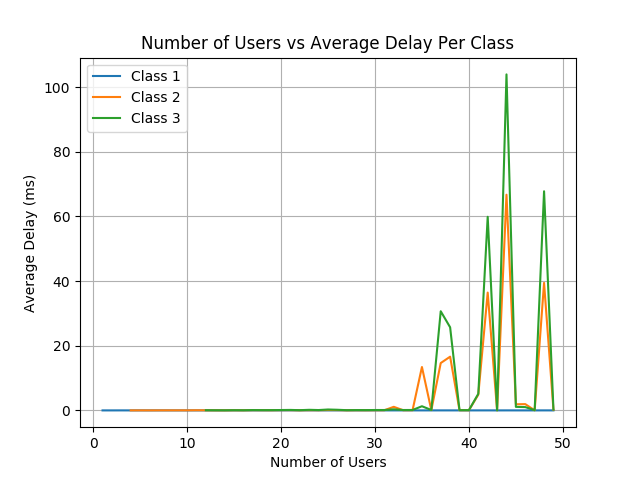
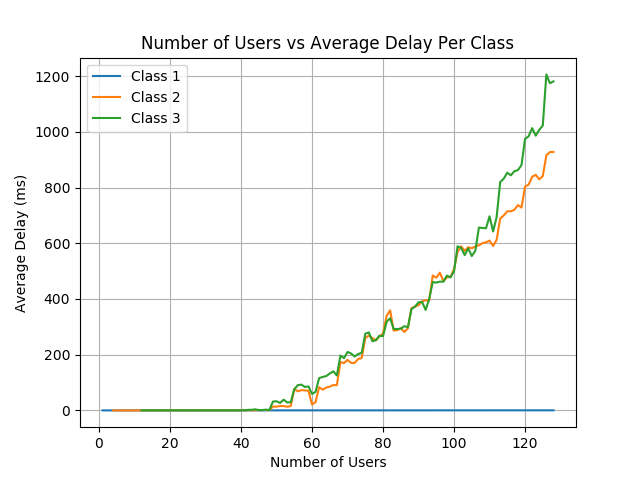
WRR scheduler works. Missing WRR PFT scheduler, std deviation of throughput plots and GBR or what % of users statistics

diff --git a/RRM_lib.py b/RRM_lib.py
@@ -83,10 +83,11 @@ class Radio_Resource_Manager(object):
         self.delays_per_user = np.zeros(self.N)
         self.transmissions_per_user = np.zeros(self.N)
         self.MS_received_pkts = np.zeros(self.N_MS)
+        self.packet_delays_per_class = [ [], [], [] ]
 
         # default to empty packet
         self.pkt_to_tx = self.get_new_packet(-1, -1, -1, -1, -1)
-
+        self.max_delay_per_class = [-1.0, -1.0, -1.0]
         self.transmitting_to_MS = False
         self.tx_expiration = -1
 
@@ -102,7 +103,12 @@ class Radio_Resource_Manager(object):
         self.N2 = 0     # number of class 2 users
         self.N3 = 0     # number of class 3 users
 
+        self.current_class_id = 3
+        self.WRR_exp = 0
 
+        self.c1_rem = 0.0
+        self.c2_rem = 0.0
+        self.c3_rem = 0.0
 
     def reset(self):
         print "Resetting RRM"
@@ -207,7 +213,10 @@ class Radio_Resource_Manager(object):
         while not done:
             for class_id in range(3):
                 if self.class_n_packets_avail(class_id + 1):
-                    for usr in self.class_n_usrs[class_id]:
+                    # shuffle user list
+                    usr_list = self.class_n_usrs[class_id].copy()
+                    random.shuffle(usr_list)
+                    for usr in usr_list:
                         if len(self.user_queues[usr]) > 0:
                             t_to_dec = self.user_queues[usr][-1].get("T_MS")
                             if (tx_time - t_to_dec) > 0.0:
@@ -219,45 +228,93 @@ class Radio_Resource_Manager(object):
                                 done = True
             done = True
 
-    def WRR_scheduler(self):
+    def WRR_scheduler(self, class_durations, current_slt):
 
-        class_id = self.get_current_class_to_schedule()
+
+        #Total_Time = 1.0 # msec
+
+
+        #while time_tracker < Total_Time:
+
+        tx_time = 1.0
+
+        #time_tracker += tx_time
+        class_id = self.get_current_class_to_schedule(class_durations=class_durations, current_slt=current_slt)
         done = False
-        tx_time = 1.0 # msec
 
         while not done:
-            if self.class_n_packets_avail(class_id + 1):
-                for usr in self.class_n_usrs[class_id]:
-                    if len(self.user_queues[usr]) > 0:
-                        t_to_dec = self.user_queues[usr][-1].get("T_MS")
-                        if (tx_time - t_to_dec) > 0.0:
-                            # pop the usr packet off the queue and add it to the tx queue
-                            pkt = self.pop_packet(usr)
-                            self.transmit_queue.appendleft(pkt)
-                            tx_time = tx_time - t_to_dec
-                        else:
-                            done = True
+            for usr in self.class_n_usrs[class_id-1]:
+                if len(self.user_queues[usr]) > 0:
+                    t_to_dec = self.user_queues[usr][-1].get("T_MS")
+                    if t_to_dec > 1.0:
+                        print "Packets are too big for time slot"
+                        sys.exit()
+
+                    if (tx_time - t_to_dec) > 0.0:
+                        # pop the usr packet off the queue and add it to the tx queue
+                        pkt = self.pop_packet(usr)
+                        self.transmit_queue.appendleft(pkt)
+                        tx_time = tx_time - t_to_dec
+                    else:
+                        done = True
 
             # done if all user queues check and no one had anything to TX
             done = True
 
-    def get_current_class_to_schedule(self):
-
-        Tf = 3
-        W = [1.0/3, 1.0/3, 1.0/3]
-
-        T_start = 0
+    def get_current_class_to_schedule(self, class_durations, current_slt):
 
 
+        c1_duration = int(math.floor(class_durations[0]))
+        self.c1_rem += class_durations[0] - c1_duration
+        if self.c1_rem >= 1.0:
+            self.c1_rem = self.c1_rem - 1.0
+            c1_duration += 1
 
 
 
-    # transmit packets and calculate statistics
+        c2_duration = int(math.floor(class_durations[1]))
+        self.c2_rem += class_durations[1] - c2_duration
+        if self.c2_rem >= 1.0:
+            self.c2_rem = self.c2_rem - 1.0
+            c2_duration += 1
+
+        c3_duration = int(math.floor(class_durations[2]))
+        self.c3_rem += class_durations[2] - c3_duration
+        if self.c3_rem >= 1.0:
+            self.c3_rem = self.c3_rem - 1.0
+            c3_duration += 1
+
+
+        if self.current_class_id == 1:
+            if current_slt == self.WRR_exp:
+                self.current_class_id = 2
+                self.WRR_exp = current_slt + c2_duration
+
+        elif self.current_class_id == 2:
+            if current_slt == self.WRR_exp:
+                self.current_class_id = 3
+                self.WRR_exp = current_slt + c3_duration
+        elif self.current_class_id == 3:
+            if current_slt == self.WRR_exp:
+                self.current_class_id = 1
+                self.WRR_exp = current_slt + c1_duration
+
+        else:
+            print "Error"
+            sys.exit()
+
+        #print "\nCurrent Slot: %d" % (current_slt)
+        #print "ID returned: %d" %(self.current_class_id)
+
+        return self.current_class_id
+
+            # transmit packets and calculate statistics
     def call_transmitter(self, current_slt):
         #print "\n**Calling Transmitter**"
         size_of_tx_deque = len(self.transmit_queue)
 
         time_tracker = 0.0
+
 
         for q_id in range(size_of_tx_deque):
             # pop the packet of the transmite queue and "transmit it"
@@ -268,8 +325,15 @@ class Radio_Resource_Manager(object):
 
 
             self.transmissions_per_user[src] += 1
-            self.delays_per_user[src] += (current_slt - pkt.get("TOD")) + time_tracker
+            delay = (current_slt - pkt.get("TOD")) + time_tracker
+            #self.delays_per_user[src] += delay
             self.MS_received_pkts[dest] += 1
+
+            # track max delay per class
+            if (delay > self.max_delay_per_class[self.user_class_map[src] - 1] ):
+                self.max_delay_per_class[self.user_class_map[src] - 1] = delay
+
+            self.packet_delays_per_class[self.user_class_map[src] - 1].append(delay)
 
             # update the time with the time it took to transmit this packet
             # this is used to update each packets "delay" because
@@ -300,6 +364,7 @@ class Radio_Resource_Manager(object):
             self.usr_start_time = [0] * self.N
         else:
             self.usr_start_time = [random.randrange(0, max_num_slts, 1) for _ in range(self.N)]
+            #print self.usr_start_time
 
     def push_packet(self, usr, pkt):
         self.user_queues[usr].appendleft(pkt)
@@ -308,8 +373,18 @@ class Radio_Resource_Manager(object):
         return self.user_queues[usr].pop()
 
     def assign_SE_to_MS(self):
+
         for ms_id in range(self.N_MS):
             self.MS_SE[ms_id] = self.get_random_MS_Spectral_Efficiency() * self.downlink_bw
+
+        SE_1 = 0.2*self.downlink_bw  # bps/Hz
+        # for 30% of MS
+        SE_2 = 1.0*self.downlink_bw  # bps/Hz
+        # for 30% of MS
+        SE_3 = 2.0*self.downlink_bw  # bps/Hz
+
+        self.MS_SE = [SE_1, SE_1, SE_1, SE_2, SE_2, SE_3, SE_3, SE_3]
+        random.shuffle(self.MS_SE)
 
 
     def assign_class_to_users(self):

diff --git a/simulation.py b/simulation.py
@@ -11,9 +11,38 @@ downlink_bw = 20e6          # Hz
 time_slot_duration = 1.0    # msec
 N_MS = 8                  # number of mobile stations
 
-N_array = [4]   # number of users
-N_array = range(1, 50)
-T = 100000         # number of simulations slots
+
+scheduler = 1
+T = 20000         # number of simulations slots
+
+if scheduler == 0:
+    N_usrs = 129
+
+elif scheduler == 1:
+    N_usrs = 50
+    Tf = 10  # 1 msec slots
+    W = np.array([0.15, 0.45, 0.3])
+
+    if np.sum(W) > 1.0:
+        print "Weights are wrong"
+        sys.exit()
+
+elif scheduler == 2:
+    N_usrs = 50
+
+else:
+    print "Scheduler Error"
+    sys.exit()
+
+
+
+N_array = range(1, N_usrs)
+class_durations = W * Tf
+#class_durations = np.array([1.5, 3.5, 3.0])
+
+# choose the scheduler to simulate
+
+
 
 class_1_throughput = []
 class_2_throughput = []
@@ -23,21 +52,22 @@ class_1_avg_delay = []
 class_2_avg_delay = []
 class_3_avg_delay = []
 
+class_1_std_delay = []
+class_2_std_delay = []
+class_3_std_delay = []
+
+class_1_max_delay = []
+class_2_max_delay = []
+class_3_max_delay = []
 
 for N in N_array:
 
-    RRM = Radio_Resource_Manager(RRM_id=1, N=N, N_MS=N_MS, downlink_bw=downlink_bw)
+    RRM = Radio_Resource_Manager(RRM_id=0, N=N, N_MS=N_MS, downlink_bw=downlink_bw)
     RRM.assign_class_to_users()
     RRM.assign_SE_to_MS()
     RRM.randomize_usr_start_time(10)
 
-    #pkt = RRM.get_new_packet(1, 4, 1600, -1)
-    #RRM.transmit_queue.append(pkt)
-    #RRM.push_packet(1, pkt)
-    #print RRM.user_queues
-    #new_pkt = RRM.pop_packet(1)
-    #print new_pkt
-    #print RRM.user_queues
+    print class_durations
 
     for slt in range(T):
         #print "\nSLOT: %d" % (slt)
@@ -48,12 +78,19 @@ for N in N_array:
         RRM.update_user_queues(current_slt=slt)
 
         # call on the scheduler to schedule packets for transmission
-        RRM.priority_based_scheduler()
+        if scheduler == 0:
+            RRM.priority_based_scheduler()
+        elif scheduler == 1:
+            RRM.WRR_scheduler(class_durations=class_durations, current_slt=slt)
+        elif scheduler == 2:
+            RRM.WRR_scheduler(class_durations=class_durations, current_slt=slt)
 
         # call in transmitter portion of radio to actually TX the packets
         RRM.call_transmitter(current_slt=slt)
 
-
+    class_1_max_delay.append(RRM.max_delay_per_class[0])
+    class_2_max_delay.append(RRM.max_delay_per_class[1])
+    class_3_max_delay.append(RRM.max_delay_per_class[2])
 
     num_tx = RRM.transmissions_per_user
     c1_idx = RRM.class_n_usrs[0]
@@ -73,24 +110,37 @@ for N in N_array:
     bps_2 = ((1.0*class_2_tx / (T*1e-3)) * RRM.class_lookup[1].get("packet_size")) / len(c2_idx)
     bps_3 = ((1.0*class_3_tx / (T*1e-3)) * RRM.class_lookup[2].get("packet_size")) / len(c3_idx)
 
-    class_1_throughput.append( bps_1/1e3 ) # kbps
-    class_2_throughput.append( bps_2/1e3 ) # kbps
-    class_3_throughput.append( bps_3/1e3 ) # kbps
+    class_1_throughput.append(bps_1/1e3) # kbps
+    class_2_throughput.append(bps_2/1e3) # kbps
+    class_3_throughput.append(bps_3/1e3) # kbps
 
 
     # average delay per class
-    d_per_usr = RRM.delays_per_user
-    c1_delays = d_per_usr[c1_idx]
-    c2_delays = d_per_usr[c2_idx]
-    c3_delays = d_per_usr[c3_idx]
+    #d_per_usr = RRM.delays_per_user
+    #c1_delays = d_per_usr[c1_idx]
+    #c2_delays = d_per_usr[c2_idx]
+    #c3_delays = d_per_usr[c3_idx]
 
-    c1_delays = (np.sum(c1_delays) / class_1_tx) / len(c1_idx)
-    c2_delays = (np.sum(c2_delays) / class_2_tx) / len(c2_idx)
-    c3_delays = (np.sum(c3_delays) / class_3_tx) / len(c3_idx)
+    c1_delays_per_user = np.array(RRM.packet_delays_per_class[0])
+    c2_delays_per_user = np.array(RRM.packet_delays_per_class[1])
+    c3_delays_per_user = np.array(RRM.packet_delays_per_class[2])
 
-    class_1_avg_delay.append(c1_delays)
-    class_2_avg_delay.append(c2_delays)
-    class_3_avg_delay.append(c3_delays)
+    c1_avg_delays = np.average(c1_delays_per_user)
+    c2_avg_delays = np.average(c2_delays_per_user)
+    c3_avg_delays = np.average(c3_delays_per_user)
+
+    class_1_avg_delay.append(c1_avg_delays)
+    class_2_avg_delay.append(c2_avg_delays)
+    class_3_avg_delay.append(c3_avg_delays)
+
+    c1_std_delays = np.std(c1_delays_per_user)
+    c2_std_delays = np.std(c2_delays_per_user)
+    c3_std_delays = np.std(c3_delays_per_user)
+
+    class_1_std_delay.append(c1_std_delays)
+    class_2_std_delay.append(c2_std_delays)
+    class_3_std_delay.append(c3_std_delays)
+
 
 
 plt.figure(1)
@@ -102,7 +152,13 @@ plt.grid()
 plt.xlabel("Number of Users")
 plt.ylabel("Throughput (Kbps)")
 plt.title("Number of Users vs Throughput Per Class")
-plt.savefig("figures/Priority_Oriented_Throughput.png")
+if scheduler == 0:
+    plt.savefig("figures/Priority_Oriented_Throughput.png")
+elif scheduler == 1:
+    plt.savefig("figures/WRR_Throughput.png")
+elif scheduler == 2:
+    plt.savefig("figures/WRR_PFT_Throughput.png")
+
 #plt.show()
 
 plt.figure(2)
@@ -114,7 +170,30 @@ plt.grid()
 plt.xlabel("Number of Users")
 plt.ylabel("Average Delay (ms)")
 plt.title("Number of Users vs Average Delay Per Class")
-plt.savefig("figures/Priority_Oriented_Avg_Delay.png")
+
+if scheduler == 0:
+    plt.savefig("figures/Priority_Oriented_Avg_Delay.png")
+elif scheduler == 1:
+    plt.savefig("figures/WRR_Avg_Delay.png")
+elif scheduler == 2:
+    plt.savefig("figures/WRR_PFT_Avg_Delay.png")
+
+
+plt.figure(3)
+plt.plot(N_array, class_1_std_delay, label='Class 1')
+plt.plot(N_array, class_2_std_delay, label='Class 2')
+plt.plot(N_array, class_3_std_delay, label='Class 3')
+plt.legend()
+plt.grid()
+plt.xlabel("Number of Users")
+plt.ylabel("Standard Deviation of Delay (ms)")
+plt.title("Number of Users vs Standard Deviation of Delay Per Class")
+if scheduler == 0:
+    plt.savefig("figures/Priority_Oriented_Std_Delay.png")
+elif scheduler == 1:
+    plt.savefig("figures/WRR_Std_Delay.png")
+elif scheduler == 2:
+    plt.savefig("figures/WRR_PFT_Std_Delay.png")
 
 
 
